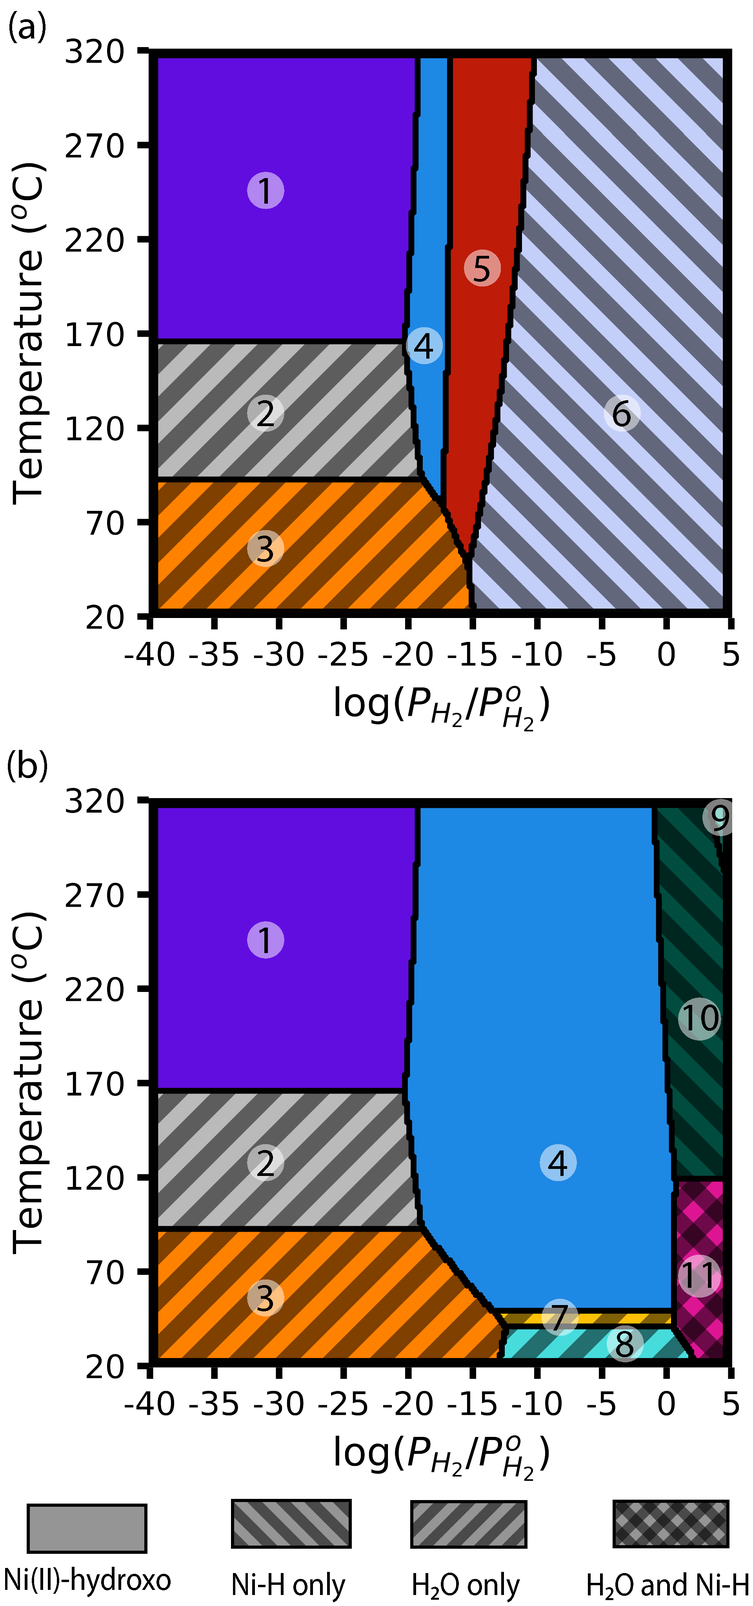
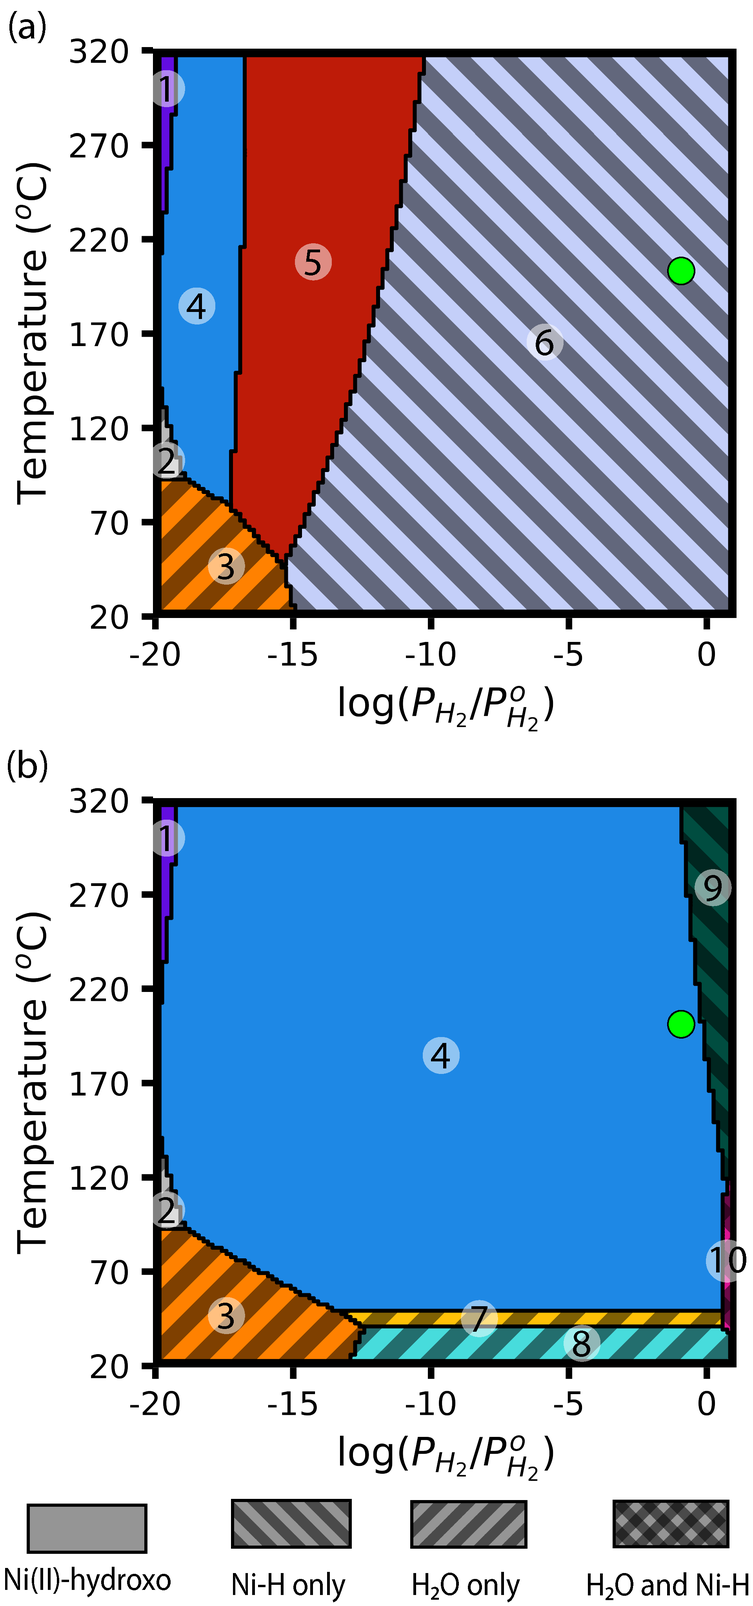
Rewriting the 3rd paragraph of the introduction again that talks about the gaps in the literature.

diff --git a/outline.tex b/outline.tex
@@ -153,9 +153,26 @@ Traditionally, chemical reaction on heterogeneous catalysts occurs at the surfac
 SSHCs aren't restricted to a single-type of solid support; atomically dispersed metal atoms have been generated on metal-organic frameworks (MOFs),\cite{Zheng2019,AbdelMageed2019,Huang2019} bulk metals,\cite{Patel2019,Pei2017,Qian2012,Jiao2019} metal oxides,\cite{Bo2019,Riley2018,Tang2019} zeolites,\cite{Mao2016, Kistler2014} and covalent-organic frameworks (COFs),\cite{Zhong2019,Romero-Muniz2020} The structure of the active site on these various supports is defined by the dispersed metal species, coordinating ligands, and steric environment with these factors contributing to the reactivity and selectivity of the catalyst. The diversity and tunable of SSHC offers new materials with interesting reactivity and selectivity, but difficulties in determining the precise active site structure poise significant limitations in catalyst design. 
 The exact structure of the active site for SSHCs is further complicated by the influence of reaction conditions. For traditional heterogeneous catalyst, the influence of reaction conditions on the catalyst surface properties are well known. The surface coverages of different gas phase species has been extensively investigated on a variety of metal surfaces.\cite{Getman2008,Piccinin2017,Zuo2016,Bray2015} However, for SSHCs the reaction conditions not only impact surface coverages, but also structural changes that define the catalytic mechanism.\cite{Kim2015,Redfern2018,Mian2020,Shabbir2020} Given catalyst structure drives catalyst function, there is a growing need to understand how the reaction environment transforms the active site structure under a variety of conditions.\cite{Tang2019} The unambiguous determination of SSHC active sites remains an ongoing challenge, with rational catalyst design inhibited by difficulties in determining the precise active site. 
 
-Our work investigates how the reaction environment (temperature and gas phase conditions) influence the structure of SSHCs supported on the NU-1000 metal-organic framework (MOF). MOFs, a porous crystalline material formed from inorganic nodes interconnected by organic linkers,\cite{Furukawa2013,Li1999} are commonly used to support 3d transition metal complexes as single-atom catalysts.\cite{Cui2018,Noh2016,Li2017,Song2019,Nguyen2015,Hackler2020} Metal complexes, comprised of metal atoms (e.g., \ce{Ni(II)}) and coordinating ligands (e.g., \ce{OH}/\ce{OH2}), generate the active site species. However, elucidating the exact structure of the active site is challenging and further complicated by structural changes induced by the reaction environment.\cite{PlateroPrats2017b,Rimoldi2017} We address these ongoing questions about the exact structure of a \ce{Ni(II)} metal complex supported on NU-1000 when exposed to \ce{H2} gas. Herein we combine density functional theory (DFT) calculations and gas phase empirical models to perform \textit{ab initio} thermodynamic analysis to calculate the stability of a \ce{Ni4}-cluster supported on NU-1000 under different temperatures and gas phase conditions (\ce{H2} and \ce{H2O}). Modeling reveals the thermodynamic landscape of the \ce{Ni(II)}-cluster under different conditions, which is compared directly to local structural information for a \ce{Ni4}-cluster under similar conditions. 
+Environmental conditions have a profound effect on SSHC active site structure. Responsive structural transformations for SSHCs include sintering of the metal atoms,\hl{REF-} dispersion of the metal atoms,\hl{REF-} or changes in the local coordination environment.\hl{REF-} The local coordination environment has a strong influence on the chemical reactivity. Determining the precise SSHC active site structure, which is already challenging, is exacerbated by the influence of environmental conditions. Combined experimental and computational approaches address questions related to characterizing SSHC active sites at different environmental conditions. \hl{DeRita2019} demonstrates that local coordination of \ce{Pt} atoms deposited on \ce{TiO2} nanoparticles evolve in response to environmental conditions and how those structural changes strongly influences the chemical reactivity for \ce{CO} oxidation.\hl{DeRita2019} Conversely, environmental conditions are also being used to fundamentally alter the active site structure being SSHC to encapsulated nanoparticles in MOFs.\hl{Mian2020} Now, understanding how the local coordination environment changes in responses to variations environmental conditions is essential when determining structure-function relationships for SSHCs regardless of the support. 
 
-We further investigate our model by comparing the local structural information of thermodynamic relevant structures to experimental structures. Our results provide structural information about the types of changes exhibited by the cluster to establish more appropriate molecular models, such as the role of \ce{H2O} within the active site.  
+
+For SSHCs supported on MOFs, ongoing questions remain about how the local coordination environment of the active site responds to environmental conditions. Both temperature and gas phase species are known to influence the acti 
+
+% talk about jingyun's paper.. in which the waters are removed...without real reason... 
+
+% Talk about how Cu clusters are stripped to form metal NPs and in other situations they are not. 
+
+% Keyword: changes in their local coordination environment.
+
+% discuss how the local coordination environment can change.. as well as sintering.. explain how sintering is a phenomena for SSHCs depending on the conditions. 
+
+% Last sentence or two can talk about the assumptions of H2O removal in MOFs.
+
+Our work investigates how environmental conditions (temperature and gas phase) influence the structure 
+
+Our work investigates how the reaction environment (temperature and gas phase conditions) influence the structure of SSHCs supported on the NU-1000 metal-organic framework (MOF). MOFs, a porous crystalline material formed from inorganic nodes interconnected by organic linkers,\cite{Furukawa2013,Li1999} are commonly used to support 3d transition metal complexes as single-atom catalysts.\cite{Cui2018,Noh2016,Li2017,Song2019,Nguyen2015,Hackler2020} Metal complexes, comprised of metal atoms (e.g., \ce{Ni(II)}) and coordinating ligands (e.g., \ce{OH}/\ce{OH2}), generate the active site species. However, elucidating the exact structure of the active site is challenging and further complicated by structural changes induced by the reaction environment.\cite{PlateroPrats2017b,Rimoldi2017} We address these ongoing questions about the structure of a \ce{Ni(II)} metal complex supported on NU-1000 when exposed to \ce{H2} gas. Using \textit{ab initio} thermodynamic analysis and dPDF analysis, the local structural information (dPDFs) from thermodynamically-relevant \ce{Ni4}-cluster models are compared directly to experimental \ce{Ni}-clusters under similar conditions to improve our understanding of the \ce{Ni} coordination environment of the multinuclear \ce{Ni(II)} metal complex. Our results provide structural information about the types of changes exhibited by the cluster, such as the role of \ce{H2O} within the active site, to establish more appropriate molecular models.  
+
+% simulations AND experiments combined together --> can we provide better insights into the structures (not answer.. just provide the insights). 
 
 %%%%%%%%%%%%%%%%%%%%%%%%%%%%%%%%%%%%%%%%%%%%%%%%%%%%%%%%%%%%%%%%%%%%%
 %% Methodology
@@ -175,7 +192,7 @@ Multinuclear \ce{Ni(II)} clusters are supported within the MOF NU-1000, which co
     \label{fig:Ni-MOF-model}
 \end{figure}
 
-\ce{Ni(II)} catalyst models are constructed within the the NU-1000 ``c-pore," (Figure~\ref{fig:Ni-MOF-model}b) following prior work,\cite{PlateroPrats2017} and bridge adjacent NU-1000 nodes.\cite{Ye2017} The two \ce{Ni} cations that bind to the \ce{Zr} nodes each replace a proton from a \ce{OH/OH2} pair thereby giving the NU-1000 MOF a net formal charge of $-$2 and the \ce{Ni(II)} catalyst model a net formal charge of $+$2. The \ce{Ni(II)} catalyst models adopt a variety of compositions and comprise between two and four \ce{Ni(II)} cations (denoted as \ce{Ni^{*}} in this work) as well as hydroxyl (\ce{OH^{*}}), water (\ce{H2O^{*}}), and hydride (\ce{H^{*}}) ligands. In all, we evaluated \textbf{\color{red}XXX} structures; \textbf{\color{red}the full library can be accessed on our GitHub page.} 
+\ce{Ni(II)} catalyst models are constructed within the the NU-1000 ``c-pore," (Figure~\ref{fig:Ni-MOF-model}b) following prior work,\cite{PlateroPrats2017} and bridge adjacent NU-1000 nodes.\cite{Ye2017} The two \ce{Ni} cations that bind to the \ce{Zr} nodes each replace a proton from a \ce{OH/OH2} pair thereby giving the NU-1000 MOF a net formal charge of $-$2 and the \ce{Ni(II)} catalyst model a net formal charge of $+$2. The \ce{Ni(II)} catalyst models adopt a variety of compositions and comprise between two and four \ce{Ni(II)} cations (denoted as \ce{Ni^{*}} in this work) as well as hydroxyl (\ce{OH^{*}}), water (\ce{H2O^{*}}), and hydride (\ce{H^{*}}) ligands. Two example structures are shown in Figures XXX In all, we evaluated \textbf{\color{red}XXX} structures; \textbf{\color{red}the full library can be accessed on our GitHub page.} 
 
 The most thermodynamically stable structures are identified in \textit{ab initio} thermodynamic analysis. In this method, a phase diagram is constructed to report the structures that minimize the free energy pursuant to temperatures and pressures in a gas phase reservoir.\cite{Reuter2003,Reuter2004,Grundner2015,Paolucci2016,Li2016,Getman2008,Mandal2020,Zuo2016,Tang2019} The free energy of each structure is calculated as
 \begin{equation}
@@ -186,12 +203,12 @@ The most thermodynamically stable structures are identified in \textit{ab initio
     \end{split}
     \label{eq:free-energy-trans}
 \end{equation}
-where $F$ is the Helmholtz free energy, $\mu$ is chemical potential, $V$ is volume, $T$ is temperature, and $N$ is the number of each type of ligand. The (2) superscript on $F^{(2)}$ indicates the second Legendre transform of $F$, i.e., of $N_{\text{H}^{*}}$ and $N_{\text{OH}^{*}}$ to $\mu_{\text{H}^{*}}$ and $\mu_{\text{OH}^{*}}$, respectively. $F$ for a solid is usually set equal to $E^\text{elec} + E^\text{ZP} + F^\text{vib}$, where $E^\text{elec}$ is the electronic energy calculated with DFT, $E^\text{ZP}$ is the zero point vibrational energy, and $F^\text{vib}$ is the temperature dependent vibrational free energy. We find that $E^\text{ZP} + F^\text{vib}$ contribute negligibly to $F$ (see Supporting Information) and hence approximate $F \approx E^\text{DFT}$.  The $\Delta$'s in Eq.~\ref{eq:free-energy-trans} indicate quantities taken relative to a reference structure. The reference structure used in this work is shown in Figure~\ref{fig:Ni-MOF-model}c and \ref{fig:Ni-MOF-model}d. To simulate reaction conditions commensurate with catalytic hydrogenation, free energies are calculated assuming equilibrium with a \ce{H2} reservoir. Further, since H addition to \ce{OH^{*}} ligands creates \ce{H2O^{*}} ligands which can theoretically desorb, the structure is also assumed to be in equilibrium with an \ce{H2O} reservoir. Following these assumptions, $\mu_{\text{H}^{*}} = 1/2 \mu_{\text{H}_2(\text{g})}$, $\mu_{\text{H}_2\text{O}^{*}} = \mu_{\text{\ce{H2O}}(\text{g})}$, and $\mu_{\text{OH}^{*}} = \mu_{\text{H}_2\text{O}^{*}} - \mu_{\text{H}^{*}}$. By definition, $\mu$ are functions of $T$ and $P$. Assuming ideal gas conditions, $\mu_{\text{H}_2(\text{g})}$ is\cite{Reuter2003,Reuter2004,Grundner2015,Paolucci2016,Li2016,Getman2008,Mandal2020}   
+where $F$ is the Helmholtz free energy, $\mu$ is chemical potential, $V$ is volume, $T$ is temperature, and $N$ is the number of each type of ligand. The (2) superscript on $F^{(2)}$ indicates the second Legendre transform of $F$, i.e., of $N_{\text{H}^{*}}$ and $N_{\text{OH}^{*}}$ to $\mu_{\text{H}^{*}}$ and $\mu_{\text{OH}^{*}}$, respectively. $F$ for a solid is usually set equal to $E^\text{elec} + E^\text{ZP} + F^\text{vib}$, where $E^\text{elec}$ is the electronic energy calculated with DFT, $E^\text{ZP}$ is the zero point vibrational energy, and $F^\text{vib}$ is the temperature dependent vibrational free energy. We find that $E^\text{ZP} + F^\text{vib}$ contribute negligibly to $F$ (see Supporting Information) and hence approximate $F \approx E^\text{DFT}$. The $\Delta$'s in Eq.~\ref{eq:free-energy-trans} indicate quantities taken relative to a reference structure. The reference structure used in this work is shown in Figure~\ref{fig:Ni-MOF-model}c and \ref{fig:Ni-MOF-model}d. To simulate reaction conditions commensurate with catalytic hydrogenation, free energies are calculated assuming equilibrium with a \ce{H2} reservoir. Further, since H addition to \ce{OH^{*}} ligands creates \ce{H2O^{*}} ligands which can theoretically desorb, the structure is also assumed to be in equilibrium with an \ce{H2O} reservoir. Following these assumptions, $\mu_{\text{H}^{*}} = 1/2 \mu_{\text{H}_2(\text{g})}$, $\mu_{\text{H}_2\text{O}^{*}} = \mu_{\text{\ce{H2O}}(\text{g})}$, and $\mu_{\text{OH}^{*}} = \mu_{\text{H}_2\text{O}^{*}} - \mu_{\text{H}^{*}}$. By definition, $\mu$ are functions of $T$ and $P$. Assuming ideal gas conditions, $\mu_{\text{H}_2(\text{g})}$ is\cite{Reuter2003,Reuter2004,Grundner2015,Paolucci2016,Li2016,Getman2008,Mandal2020}   
 \begin{equation}
     \mu_{\text{H}_{2}(\text{g})}(T,P_{\text{H}_{2}}) = E^\text{elec}_{\text{H}_{2}} + E^\text{ZP}_{\text{H}_{2}} + \left[ G_{\text{H}_{2}}(T,P^{o}) - G_{\text{H}_{2}}(0~\text{K},P^{o}) + RT \ln{\left( \frac{P_{\text{H}_{2}}}{P^{o}} \right)} \right]  
     \label{eq:chemicalpotentialrel}
 \end{equation}
-where $G$ is the Gibbs free energy, $P$ is partial pressure, and $P^{o}$ is the standard pressure (1 bar). We calculate values of $G$ using the NASA Polynomials\cite{Mcbride1993} in the pMuTT\cite{LYM2019106864} Python package. $G(0~\text{K},P^{o})$ is approximated as $G(10~\text{K},P^{o})$ and obtained by extrapolating the NASA Polynomials, following prior work.\cite{Getman2008,Li2016} $\mu_{\text{H}_2\text{O}(\text{g})}$ is computed analogously. Phase diagrams could hence be constructed in three dimensions, as functions of $T$, $P_{\text{\ce{H2}}}$, and $P_{\text{\ce{H2O}}}$. However, since \ce{H2O} is not typically added in hydrogenation reactions, in our analysis, we construct two dimensional phase diagrams as functions of $T$ and $P_{\text{\ce{H2}}}$. These phase diagrams are constructed at constant $P_{\text{\ce{H2O}}}$ of $10^{-1}$ bar, since this value yields phase diagrams comprising structures with \ce{Ni^*} coordination numbers that are commensurate with experimental observation. Phase diagrams constructed at $P_{\text{\ce{H2O}}} < 10^{-1}$~bar are provided in Supporting Information. The maximum number of \ce{Ni(II)} cations considered in our models is four. This choice is based off prior results, which xxx However, we also investigate scenarios where \ce{Ni^*} are removed from the structure, e.g., by aggregating to form Ni metal. In these circumstances, we take an additional Legendre transformation of $F^{(2)}$ into $F^{(3)}$ by transforming $N_{\ce{Ni^*}}$ into $\mu_{\ce{Ni^*}}$, where $\mu_{\text{Ni}^{*}} = \mu_{\text{Ni}(\text{s})}$ and $\mu_{\text{Ni}(\text{s})} = E^\text{elec}_\text{Ni(s)}$, following prior work.\cite{Li2016} A full description of how $E_\text{Ni(s)}$ is calculated is provided in Supporting Information. Further details about the thermodynamic modeling approach as well as sensitivity analyses for the various modeling decisions are provided in \hl{supporting information}.
+where $G$ is the Gibbs free energy, $P$ is partial pressure, and $P^{o}$ is the standard pressure (1 bar). We calculate values of $G$ using the NASA Polynomials\cite{Mcbride1993} in the pMuTT\cite{LYM2019106864} Python package. $G(0~\text{K},P^{o})$ is approximated as $G(10~\text{K},P^{o})$ and obtained by extrapolating the NASA Polynomials, following prior work.\cite{Getman2008,Li2016} $\mu_{\text{H}_2\text{O}(\text{g})}$ is computed analogously. Phase diagrams could hence be constructed in three dimensions, as functions of $T$, $P_{\text{\ce{H2}}}$, and $P_{\text{\ce{H2O}}}$. However, since \ce{H2O} is not typically added in hydrogenation reactions, in our analysis, we construct two dimensional phase diagrams as functions of $T$ and $P_{\text{\ce{H2}}}$. These phase diagrams are constructed at constant $P_{\text{\ce{H2O}}}$ of $10^{-1}$ bar, since this value yields phase diagrams comprising structures with \ce{Ni^*} coordination numbers that are commensurate with experimental observation. Phase diagrams constructed at $P_{\text{\ce{H2O}}} < 10^{-1}$~bar are provided in Supporting Information. The maximum number of \ce{Ni(II)} cations considered in our models is four. This choice is based off prior results, with \citeauthor{PlateroPrats2017} revealing the \ce{Ni(II)} cluster most likely consists of four \ce{Ni(II)} atoms\cite{PlateroPrats2017} and \citeauthor{Ye2017} suggesting that the \ce{Ni4}-cluster spans the length of the pore within the MOF.\cite{Ye2017} Additionally, we also investigate scenarios where \ce{Ni^*} are removed from the structure, e.g., by aggregating to form Ni metal. In these circumstances, we take an additional Legendre transformation of $F^{(2)}$ into $F^{(3)}$ by transforming $N_{\ce{Ni^*}}$ into $\mu_{\ce{Ni^*}}$, where $\mu_{\text{Ni}^{*}} = \mu_{\text{Ni}(\text{s})}$ and $\mu_{\text{Ni}(\text{s})} = E^\text{elec}_\text{Ni(s)}$, following prior work.\cite{Grundner2015} A full description of how $E_\text{Ni(s)}$ is calculated is provided in Supporting Information. Further details about the thermodynamic modeling approach as well as sensitivity analyses for the various modeling decisions are provided in \hl{supporting information}.
 
 Electronic energies are calculated using the CP2K software package.\cite{Hutter2014} The exchange correlation energy is calculated with the PBE functional\cite{Perdew1996} and corrected using damped D3 dispersion corrections formulated by \citeauthor{Grimme2010}\cite{Grimme2010} The DZVP-MOLOPT basis set is used to model the valance electrons, and the Goedecker pseudopotentials\cite{Goedecker1996} are used to model the core electrons. The plane wave cutoff energy is 360 Ry. The Unrestricted Kohn-Sham (UKS) method is employed given the open shell natures of the \ce{Ni} ions. For example, a single \ce{Ni(II)} ion can adopt either a singlet or triplet state; therefore, clusters with four \ce{Ni} ions can adopt singlet, triplet, quintet, septet, or nonet states. We consider all possible spin states for each catalyst composition, given the importance of the spin state on the computed electronic energy.\cite{Shabbir2020,Ye2017,Bernales2016,Mandal2020b} Any spin state exhibiting spin contamination is removed from thermodynamic analysis (see supporting information for more details). The final of $E$ used in thermodynamic analysis are obtained from geometry relaxations where all atoms in the periodic unit cell are allowed to relax. A sample input file for the CP2K calculations is provided in Supporting Information.
 
@@ -199,13 +216,40 @@ Electronic energies are calculated using the CP2K software package.\cite{Hutter2
 
 \subsection{Experimental Details}
 
-The pair distribution function (PDF), G(r), represents the local structure as a histogram atom-atom distances in the material weighted by the scattering power of the atoms involved. While the measured PDF reflects all atom-atom distances within the material, by deriving a differential PDF (dPDF), where the PDF measured for NU-1000 is subtracted from the PDF measured for the Ni-complex containing Ni-NU-1000, we analytically isolate the atom-atom distances that define the \ce{Ni} cluster and its interaction with NU-1000 support. Thus the dPDF includes the interatomic distances  within the cluster (\ce{Ni{\Compactcdots}Ni}, \ce{Ni-O}, \ce{O{\Compactcdots}O} atom pairs) and between the cluster and the MOF (\ce{Ni{\Compactcdots}Zr} and \ce{Ni{\Compactcdots}O}) with atom pairs not directly bonded to each other receiving the ``${\Compactcdots}$" notation. PDFs of the computed structural models were simulated within PDFgui using typical values of instrument and atomic displacement parameters for such materials. Given the lower scattering contribution from the \ce{O} atoms compared to \ce{Ni} atoms, \ce{O{\Compactcdots}O} pairs have very low contribution to the measured data and were not calculated. The simulated PDFs were evaluated for their correspondence to the experimental data over XYZ {\AA} range. The experimental details of the PDF measurements are described elsewhere in detail.\cite{PlateroPrats2017} The tetranuclear \ce{Ni} cluster exposed to \ce{H2} (3.5\% in \ce{He}) at 200 \degree C for 2 hours and then cooled to 50 \degree C in \ce{H2} for measurement.\cite{PlateroPrats2017} Powder X-ray diffraction (XRD) and total scattering data suitable for PDF analysis were collected at 50 \degree C in \ce{H2}.
+The pair distribution function (PDF), G(r), represents the local structure as a histogram atom-atom distances in the material weighted by the scattering power of the atoms involved. While the measured PDF reflects all atom-atom distances within the material, by deriving a differential PDF (dPDF), where the PDF measured for NU-1000 is subtracted from the PDF measured for the Ni-complex containing Ni-NU-1000, we analytically isolate the atom-atom distances that define the \ce{Ni} cluster and its interaction with NU-1000 support. Thus the dPDF includes the interatomic distances  within the cluster (\ce{Ni{\Compactcdots}Ni}, \ce{Ni-O}, \ce{O{\Compactcdots}O} atom pairs) and between the cluster and the MOF (\ce{Ni{\Compactcdots}Zr} and \ce{Ni{\Compactcdots}O}) with atom pairs not directly bonded to each other receiving the ``${\Compactcdots}$" notation. PDFs of the computed structural models were simulated within PDFgui using typical values of instrument and atomic displacement parameters for such materials. Given the lower scattering contribution from the \ce{O} atoms compared to \ce{Ni} atoms, \ce{O{\Compactcdots}O} pairs have very low contribution to the measured data and were not calculated. The simulated PDFs were evaluated for their correspondence to the experimental data over XYZ {\AA} range. The experimental details of the PDF measurements are described elsewhere in detail.\cite{PlateroPrats2017} The tetranuclear \ce{Ni} cluster exposed to \ce{H2} (3.5\% in \ce{He}) at 200 \degree C for 2 hours and then cooled to 50 \degree C in \ce{H2} for measurement.\cite{PlateroPrats2017} Powder X-ray diffraction (XRD) and total scattering data suitable for PDF analysis were collected at 50 \degree C in \ce{H2}. The dPDFs provide structural insights into the cluster by revealing key interatomic distances with peaks indicating the distance between different atoms. First coordination sphere distances are reported using a line (e.g., \ce{Ni-O}) while second coordination sphere distances are reported using dots (e.g., \ce{Ni{\Compactcdots}Ni} and \ce{Ni{\Compactcdots}Zr}).
 
 %%%%%%%%%%%%%%%%%%%%%%%%%%%%%%%%%%%%%%%%%%%%%%%%%%%%%%%%%%%%%%%%%%%%%
 %% Results
 %%%%%%%%%%%%%%%%%%%%%%%%%%%%%%%%%%%%%%%%%%%%%%%%%%%%%%%%%%%%%%%%%%%%%
+
+% and in some cases formation of $\ce{H^{*}}$
+
 \section{Results}
-The dPDF for the experimentally obtained structure is shown in Figure~\ref{fig:dPDFs_TandP_trans_Ni} (black line). The dPDFs provide structural insights into the cluster by revealing key interatomic distances with peaks indicating the distance between different atoms. First coordination sphere distances are reported using a line (e.g., \ce{Ni-O}) while second coordination sphere distances are reported using dots (e.g., \ce{Ni{\Compactcdots}Ni} and \ce{Ni{\Compactcdots}Zr}). The significant peaks in the experimental structure are the \ce{Ni-O} distance at 2.02 {\AA}, the \ce{Ni{\Compactcdots}Ni} distances at 3.01 {\AA} and 3.27 {\AA}, and the \ce{Ni{\Compactcdots}Zr} distances at 3.78 {\AA} and 4.08 {\AA}, yielding a Ni coordination number of ca. 5. The ``double" peaks at 3.01 {\AA} and 3.27 {\AA} and 3.78 {\AA} and 4.08 {\AA} indicate asymmetric interatomic distances with the cluster, suggesting that structurally similar Ni ions coordinate to different ligands. For example, our models comprising four Ni ions contain two types of Ni ions: two that connect to the Zr nodes and two that do not (e.g., see Figures~\ref{fig:Ni-MOF-model}(c), \ref{fig:Ni-MOF-model}(d), and \ref{fig:Ni-structure-diagram}). To exhibit asymmetry, we expect (i) the two Ni ions that connect to the Zr nodes will have coordination environments that differ from each other, and (ii) the two Ni ions that do not connect to the Zr nodes will have coordination environments that differ from each other.
+Phase diagrams for the Ni cluster calculated as a function of $T$ and $P_{\ce{H2}}$ are provided in Figure~\ref{fig:phase_diagram_Ni_combined} with corresponding structures depicted in Figure~\ref{fig:Ni-structure-diagram}. Specifically, Figure 2a plots the thermodynamically preferred structures with $2 \le N_{\ce{Ni^*}} \le 4$ while Figure 2b plots structures with $N_{\ce{Ni^*}} = 4$. Considering the phase diagram in Figure 2a, it is evident that increasing $P_{\ce{H2}}$ results in a loss of \ce{Ni^*}. In general, increasing \ce{H2} partial pressure results in conversion of $\ce{OH^{*}}$ to $\ce{H2O^{*}}$. When these $\ce{H2O^{*}}$ desorb from the structure, the Ni cations are destabilized and can minimize their energies via aggregation. This results in loss of $\ce{Ni^{*}}$. Interestingly, the dominant structure in Figure 2a, structure 6 (see Figure 3), which has stoichiometry of \ce{Ni2(H)2}, comprises isolated Ni hydride species that have been previously suggested as the active sites in catalytic hydrogenation. Also of interest is that the dominant structure in Figure 2b is structure 4, which has stoichiometry of XXX and has been previously suggested YYY.   
+
+% The combined phase diagram figures
+\begin{figure}[H]
+    \centering
+    \includegraphics{zi-images/01-Ni-Graphics/2021-MAIN-phase-diagram-combined.png}
+    \caption{
+    Phase diagrams for the Ni cluster catalyst calculated at $P_{\text{\ce{H2O}}}=10^{-1}$ bar as a function of $T$ and $P_{\text{H}_2}$ with (a) variable \ce{Ni} composition and (b) fixed \ce{Ni} composition (\ce{Ni}=4). The different structures are represented by the different colored and numbered regions; the color and numbering schemes are the same as in Figures~\ref{fig:Ni-structure-diagram} and \ref{fig:dPDFs_TandP_trans_Ni}. In (a), the \ce{Ni} chemical potential ($\mu_{\text{Ni(s)}} \approx E_{\text{Ni(s)}}$), whereas in (b) the number of \ce{Ni} atoms ($N_{\text{Ni(s)}}=4$) is fixed. The green dot represents $T$ and $P_{\text{\ce{H2}}}$ conditions observed experimentally.
+    }
+    \label{fig:phase_diagram_Ni_combined}
+\end{figure}  
+
+% Structure Diagram
+\begin{figure}[H]
+    \centering
+    \includegraphics{zi-images/01-Ni-Graphics/2021-MAIN-structure-diagram.png}
+    \caption{
+    Depictions of key structures considered in this work along with the names used to identify them. The color and numbering schemes are the same as in Figures~\ref{fig:dPDFs_TandP_trans_Ni} and \ref{fig:phase_diagram_Ni_combined}. Structure denoted with an $\blacklozenge$ are not thermodynamic minimum under any of the explored conditions. All \ce{H2O}s within the structure are colored blue, and any hydride species (\ce{Ni-H}) are colored red.
+    }
+    \label{fig:Ni-structure-diagram}
+\end{figure}
+
+To lend insight into the relevance of these structures under conditions of catalytic hydrogenation, we compared their dPDFs with the experimentally observed dPDF, which was collected XXX The dPDF for the experimentally obtained structure is shown in Figure~\ref{fig:dPDFs_TandP_trans_Ni} (black line). The significant peaks in the experimental structure are the \ce{Ni-O} distance at 2.02 {\AA}, the \ce{Ni{\Compactcdots}Ni} distances at 3.01 {\AA} and 3.27 {\AA}, and the \ce{Ni{\Compactcdots}Zr} distances at 3.78 {\AA} and 4.08 {\AA}, yielding a Ni coordination number of ca. 5. Notably, neither structure 4 nor structure 6 has such a high coordination number. As Ni coordination numbers are higher in Figure 2b than in Figure 2a, this suggests that Ni atoms do not leave the structure under hydrogenation conditions. This difference between experiments and simulations could be due to kinetics or other things not included in the models. Notably, at lower temperatures, structures with higher Ni coordination become thermodynamically preferred. These are structure 7, which has XXX and structure 8, which comprises \ce{OH}, \ce{H2O}, and \ce{H} ligands. Notably, structure 8 comprises a hydride ligand, which has been suggested as the active site in XXX, as well as a hydrogen bonded chain of H2O molecules. Also of interest is ``splitting" of the peaks at XX and YY. This also occurs in the experimental structure. The ``double" peaks at 3.01 {\AA} and 3.27 {\AA} and 3.78 {\AA} and 4.08 {\AA} indicate asymmetric interatomic distances with the cluster, suggesting that structurally similar Ni ions coordinate to different ligands. While this general phenomenon is captured in structure 8, agreement between the experimental and simulated dPDFs are not great. 
+
+%For example, our models comprising four Ni ions contain two types of Ni ions: two that connect to the Zr nodes and two that do not (e.g., see Figures~\ref{fig:Ni-MOF-model}(c), \ref{fig:Ni-MOF-model}(d), and \ref{fig:Ni-structure-diagram}). To exhibit asymmetry, we expect (i) the two Ni ions that connect to the Zr nodes will have coordination environments that differ from each other, and (ii) the two Ni ions that do not connect to the Zr nodes will have coordination environments that differ from each other. 
 
 % dPDF diagram for the phase diagram structures 
 \begin{figure}[H]
@@ -217,29 +261,7 @@ The dPDF for the experimentally obtained structure is shown in Figure~\ref{fig:d
     \label{fig:dPDFs_TandP_trans_Ni}
 \end{figure}
 
-Thermodynamic analysis is used to provide atomic-level insight into the Ni cluster composition and structure. Based on the observation from experiments that the Ni ions are highly coordinated, we perform thermodynamic analysis at significant $P_{\text{\ce{H2O}}}$ of $10^{-1}$ bar. This choice is justified below; further, sensitivity of the results to this choice is provided in Supporting Information. Phase diagrams for the Ni cluster calculated as a function of $T$ and $P_{\text{\ce{H2}}}$ are provided in Figure~\ref{fig:phase_diagram_Ni_combined} (with corresponding structures depicted in Figure~\ref{fig:Ni-structure-diagram}). In general, increasing \ce{H2} partial pressure results in conversion of $\ce{OH^{*}}$ to $\ce{H2O^{*}}$ and in some cases formation of $\ce{H^{*}}$. It also promotes loss of $\ce{Ni^{*}}$ (see Figure~\ref{fig:phase_diagram_Ni_combined}(a)).  
-
-% Structure Diagram
-\begin{figure}[H]
-    \centering
-    \includegraphics{zi-images/01-Ni-Graphics/2021-MAIN-structure-diagram.png}
-    \caption{
-    Depictions of key structures considered in this work along with the names used to identify them. The color and numbering schemes are the same as in Figures~\ref{fig:dPDFs_TandP_trans_Ni} and \ref{fig:phase_diagram_Ni_combined}. Structure denoted with an $\blacklozenge$ are not thermodynamic minimum under any of the explored conditions.
-    }
-    \label{fig:Ni-structure-diagram}
-\end{figure}
-
-% The combined phase diagram figures
-\begin{figure}[H]
-    \centering
-    \includegraphics{zi-images/01-Ni-Graphics/2021-MAIN-phase-diagram-combined.png}
-    \caption{
-    Phase diagrams for the Ni cluster catalyst calculated at $P_{\text{\ce{H2O}}}=10^{-1}$ bar as a function of $T$ and $P_{\text{H}_2}$. (a) Variable Ni composition. (b) Ni composition fixed at 4 Ni ions. The different structures are represented by the different colored and numbered regions; the color and numbering schemes are the same as in Figures~\ref{fig:dPDFs_TandP_trans_Ni} and \ref{fig:Ni-structure-diagram}. In (a), $\mu_{\text{Ni(s)}}$ is fixed (= $E_{\text{Ni(s)}}$), whereas in (b), $N_{\text{Ni(s)}}$ is fixed (= 4).
-    }
-    \label{fig:phase_diagram_Ni_combined}
-\end{figure}   
-
-Of interest is the catalyst composition and structure under operating conditions, i.e., 0.05~bar \ce{H2} and $T \le$~200~K. The structure that minimizes $F^{(3)}$ at these conditions, according to Figure~\ref{fig:phase_diagram_Ni_combined}(a), i.e., where the compositions of hydride, hydroxyl, and water ligands as well as Ni ions are allowed to vary, is 6-\ce{Ni2(H)2} (lilac in Figure~\ref{fig:Ni-structure-diagram}). This structure features two isolated single Ni ion hydride structures, similar to models used in prior catalytic studies.\cite{Li2016sintering,Shabbir2020, Hackler2020} However, the dPDF for this structure is in stark contrast with the experimental dPDF, given its low Ni coordination number of ca. 3. Further, the dPDF for the lilac structure does not match well with the experimentally observed one. In fact, given that removal of Ni only occurs after significant depletion of $\ce{OH^{*}}$, which in turn decreases the Ni coordination number, the only structures from our library that have the possibility of matching the experimental dPDF are those with four Ni ions. Hence, Figure~\ref{fig:phase_diagram_Ni_combined}(b) provides a phase diagram where the number of Ni ions is held fixed at 4. 
+%Of interest is the catalyst composition and structure under operating conditions, i.e., 0.05~bar \ce{H2} and $T \le$~200~K. The structure that minimizes $F^{(3)}$ at these conditions, according to Figure~\ref{fig:phase_diagram_Ni_combined}(a), i.e., where the compositions of hydride, hydroxyl, and water ligands as well as Ni ions are allowed to vary, is 6-\ce{Ni2(H)2} (lilac in Figure~\ref{fig:Ni-structure-diagram}). This structure features two isolated single Ni ion hydride structures, similar to models used in prior catalytic studies.\cite{Li2016sintering,Shabbir2020, Hackler2020} However, the dPDF for this structure is in stark contrast with the experimental dPDF, given its low Ni coordination number of ca. 3. Further, the dPDF for the lilac structure does not match well with the experimentally observed one. In fact, given that removal of Ni only occurs after significant depletion of $\ce{OH^{*}}$, which in turn decreases the Ni coordination number, the only structures from our library that have the possibility of matching the experimental dPDF are those with four Ni ions. Hence, Figure~\ref{fig:phase_diagram_Ni_combined}(b) provides a phase diagram where the number of Ni ions is held fixed at 4.
 
 While several structures on this phase diagram exhibit \ce{Ni-O} peaks in good agreement with experiment, only one, 8-\ce{Ni4(OH)5(H).4H2O} (teal in Figure~\ref{fig:Ni-structure-diagram}), exhibits double \ce{Ni{\Compactcdots}Ni} peaks. This ``teal" structure features hydride, hydroxyl, and water ligands as well as \ce{H2O} molecules that form a hydrogen bonded chain between a hydroxyl ligand and a water ligand and is the thermodynamically preferred structure under conditions of relevance to catalysis. We determined the binding energy of the \ce{H2O} molecule that is uncoordinated to any cluster \ce{Ni} atoms in the chain is -104 kJ/mol, which is lower in energy than \ce{H2O} coordinated to \ce{Ni} (~-75 kJ/mol). The more favorable binding energy suggests that despite not being coordinated to any \ce{Ni}, that the \ce{H2O} has favorable interactions with other parts of the MOF. The distance between a carbon atom in pyrene-linker and the \ce{H} atom in the \ce{H2O} molecules is 2.37 {\AA} and 2.70 {\AA}, respectively.   
 
@@ -248,17 +270,17 @@ While this structure captures double peaks for the \ce{Ni{\Compactcdots}Ni} dist
 %%%%%%%%%%%%%%%%%%%%%%%%%%%%%%%%%%%%%%%%%%%%%%%%%%%%%%%%%%%%%%%%%%%%%
 %% Discussion
 %%%%%%%%%%%%%%%%%%%%%%%%%%%%%%%%%%%%%%%%%%%%%%%%%%%%%%%%%%%%%%%%%%%%
-\subsection{Discussion}
+\section{Discussion}
 Taking together the experimental and computational results, several things about the Ni cluster structure become clear. First, Ni is highly coordinated, as evidenced by the experimental dPDF. Our thermodynamic modeling indicates that for this condition to be met, catalysts must comprise a significant Ni content, since removal of Ni is caused by removal of $\ce{OH^{*}}$ ligands (and hence reduction in the Ni coordination number). Presence of $\ce{OH^{*}}$ ligands is also important, since they hold the structure together. In our model, this indicates appreciable $\mu_{\text{H}_2\text{O}(\text{g})}$.  $\ce{H2O^{*}}$ ligands seem to also play a role in causing \ce{Ni{\Compactcdots}Ni}, and possibly \ce{Ni{\Compactcdots}Zr} peak splitting (\ce{Ni{\Compactcdots}Zr} could also be caused by distortions in the MOF crystal structure, which we have not studied in this paper); the two structures (teal and green) that demonstrate peak splitting have 3 (green) and 4 (teal) $\ce{H2O^{*}}$ ligands, respectively. Interestingly, in both of these structures, the $\ce{H2O^{*}}$ ligands bridge two ligands (teal) or Ni ions (green), suggesting that bridging $\ce{H2O^{*}}$ ligands could cause the peak splitting observed experimentally. 
 
 Interestingly, few of the structures on Figure \ref{fig:phase_diagram_Ni_combined} comprise hydride ligands, which have been previously suggested as the active site in hydrogenation catalysis. While this work does not rule out metal hydrides as active sites, it suggests that other ligands, e.g., \ce{OH} or \ce{H2O} ligands, could participate in the active site for catalysis.  The lack of \ce{Ni-H} raises questions about the catalytically active group for the \ce{Ni} metal complex catalyst. 
 
-\subsection{Conclusions}
+\section{Conclusions}
 We present the rich structural landscape of a \ce{Ni} metal complex using a \textit{ab initio} thermodynamic analysis, which combines density functional theory (DFT) and empirical gas phase thermochemistry to determine the thermodynamic stability of a \ce{Ni} metal complex at different conditions. We explore the influence of temperature, \ce{H2O} partial pressure, and \ce{H2} partial pressure on the thermodynamic stability and report our finding as phase diagrams. We quantify the local structures of our model using dPDF analysis, and compare our model structures to experimental dPDF for a \ce{Ni} metal complex supported on NU-1000. Comparisons with experiments reveal the importance of a high \ce{Ni} coordination environment, which is maintained by coordinated \ce{OH} and \ce{H2O} groups to the \ce{Ni} atoms of the cluster. When exposed to \ce{H2} and elevated temperatures, our model shows the removal of \ce{OH} ligands, resulting in lower \ce{Ni} coordination within the active site. Structures with a low \ce{Ni} coordination generate peaks that are not observed experimentally. With a higher \ce{H2O} partial pressure, our \textit{ab initio} thermodynamic modeling produce structures that include both \ce{OH} and \ce{H2O} species within the active site. We expand from structures that are thermodynamic minima to include other structures within the library. A general trend is that the structures containing more \ce{OH} and \ce{H2O} groups show better agreement to the experimental dPDF in our dPDF analysis, and these structures become thermodynamically relevant at higher \ce{H2O} partial pressures. 
 
  Overall, the findings establish improve models that require further computational catalytic investigations, including the exploration of the kinetic barriers related to these transformations.
  
-\subsection{References}
+\section{References}
 
 %The class makes various changes to the way that references are
 %handled.  The class loads \textsf{natbib}, and also the
